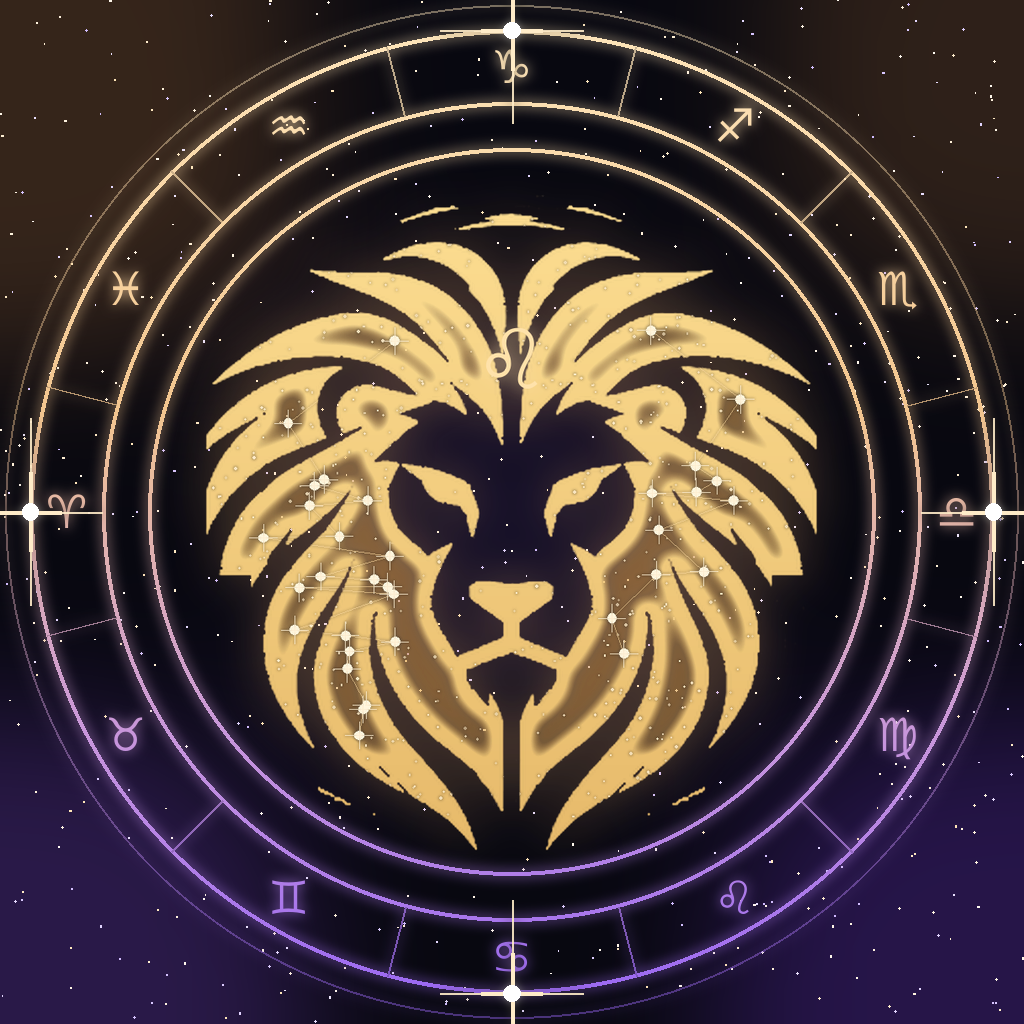
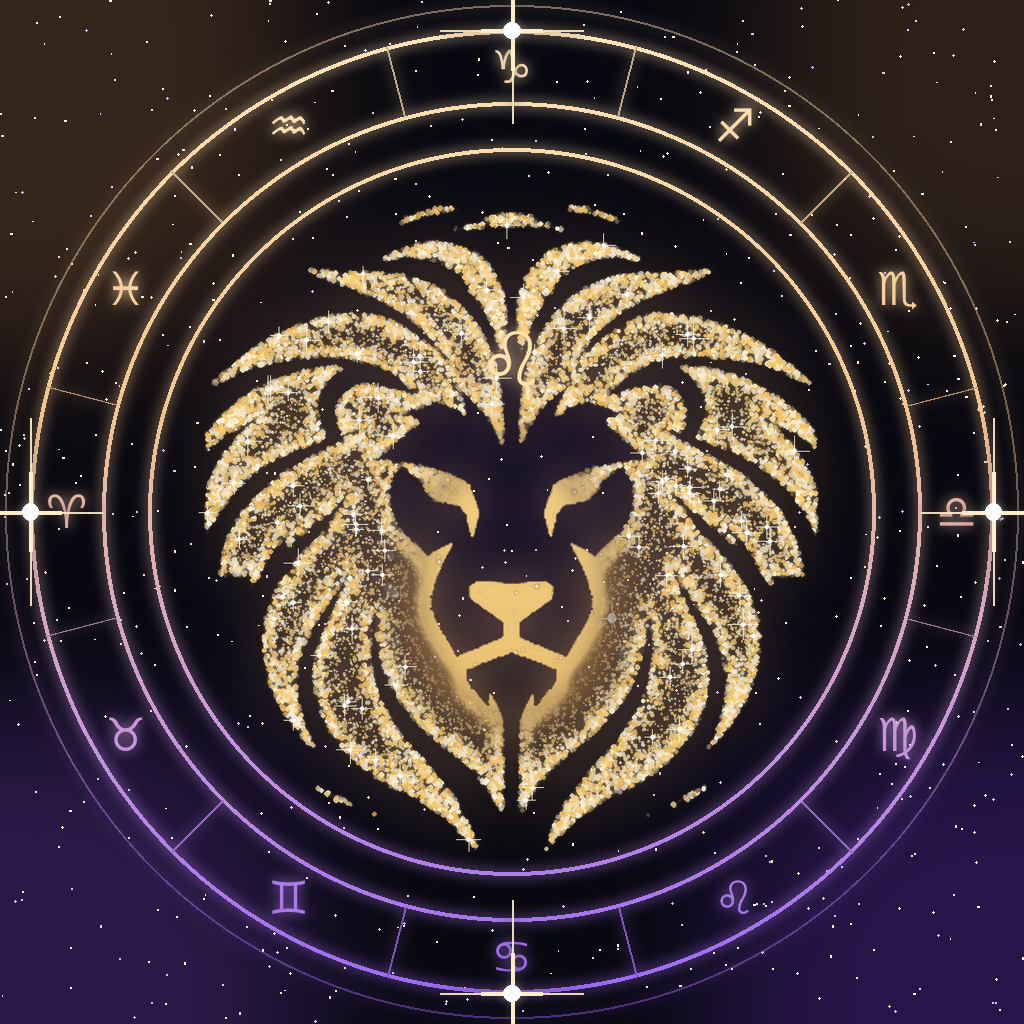
Leon Astral: juba do leão feita de estrelas (v9)
Claude-Session: https://claude.ai/code/session_015QtkNiigeZZHgyGsT8Acyk

Changed region(s): [[0.1875, 0.1875, 0.8125, 0.8438]]

diff --git a/leon-astral-app/tools/make_lion.py b/leon-astral-app/tools/make_lion.py
@@ -121,3 +121,53 @@ def make_icon(S, lion, wheel=True):
 if __name__=='__main__':
     lion=make_lion(900); lion.save('/home/claude/lion_v8.png')
     for s in (1024,512): make_icon(s,lion).save(f'/home/claude/icon_v8_{s}.png')
+
+def make_star_lion(size_w=900, seed=3):
+    base=make_lion(size_w)                     # versão atual (rosto nítido)
+    src0=Image.open('/home/claude/lion_clean.png').convert('RGBA')
+    pad=int(src0.width*0.12); src=Image.new('RGBA',(src0.width+2*pad,src0.height+2*pad),(0,0,0,0)); src.paste(src0,(pad,pad))
+    W,H=base.size; src=src.resize((W,H),Image.LANCZOS); A=src.split()[3]
+    er=A.filter(ImageFilter.MinFilter(int(W*0.02)|1)).filter(ImageFilter.GaussianBlur(W*0.01))
+    edge=ImageChops.subtract(A,er)
+    # máscara do rosto (elipse central suave)
+    face=Image.new('L',(W,H),0); fd=ImageDraw.Draw(face)
+    fd.ellipse((W*0.36,H*0.40,W*0.64,H*0.76),fill=255)
+    face=face.filter(ImageFilter.GaussianBlur(W*0.025))
+    mane=ImageChops.multiply(A,Image.eval(face,lambda v:255-v))
+    # rosto = versão atual recortada
+    fa=ImageChops.multiply(base.split()[3],face); facel=base.copy(); facel.putalpha(fa)
+    # névoa dourada bem leve para a juba ainda ler como forma
+    haze=Image.new('RGBA',(W,H),(240,190,110,0)); haze.putalpha(Image.eval(mane,lambda v:int(v*0.10)))
+    # estrelas que formam a juba
+    st=Image.new('RGBA',(W,H),(0,0,0,0)); d=ImageDraw.Draw(st); random.seed(seed)
+    mp=mane.load(); ep=edge.load()
+    cols=[(255,236,190),(255,214,130),(255,246,225),(250,200,110)]
+    n=0; tries=0; target=int(W*H/45)
+    while n<target and tries<target*8:
+        tries+=1; x,y=random.random()*W,random.random()*H
+        m=mp[int(x),int(y)]
+        if m<60: continue
+        e=ep[int(x),int(y)]/255
+        if random.random()>(0.35+0.65*min(1,e*1.6+0.25)): continue   # mais denso nas bordas das mechas
+        r=(random.choice([.5,.7,.9,1.1,1.4])+e*1.6)*W/900
+        a=int(min(255,(170+85*random.random())*(0.75+0.25*e))*m/255)
+        d.ellipse((x-r,y-r,x+r,y+r),fill=random.choice(cols)+(a,)); n+=1
+    # algumas estrelas grandes com brilho em cruz
+    for _ in range(int(W*H/9000)):
+        for _t in range(40):
+            x,y=random.random()*W,random.random()*H
+            if mp[int(x),int(y)]>200: break
+        L=random.uniform(8,18)*W/900; w=max(1,int(W/650))
+        d.line((x-L,y,x+L,y),fill=(255,244,220,230),width=w); d.line((x,y-L,x,y+L),fill=(255,244,220,230),width=w)
+        r=2.2*W/900; d.ellipse((x-r,y-r,x+r,y+r),fill=(255,255,255,255))
+    glow=st.filter(ImageFilter.GaussianBlur(W/320))
+    stars=Image.alpha_composite(glow,st)
+    out=Image.new('RGBA',(W,H),(0,0,0,0))
+    halo=Image.new('RGBA',(W,H),(255,190,110,0)); halo.putalpha(Image.eval(A.filter(ImageFilter.GaussianBlur(W*0.035)),lambda v:int(v*0.22)))
+    for layer in (halo,haze,stars,facel): out=Image.alpha_composite(out,layer)
+    # símbolo de Leão na testa por cima
+    f=ImageFont.truetype(FONT,int(W*0.10))
+    gl=Image.new('L',(W,H),0); ImageDraw.Draw(gl).text((W/2,H*0.30),'♌',font=f,anchor='mm',fill=255)
+    glyph=Image.merge('RGBA',(*Image.new('RGB',(W,H),(255,226,170)).split(),gl))
+    out=Image.alpha_composite(out,glyph.filter(ImageFilter.GaussianBlur(W*0.01))); out=Image.alpha_composite(out,glyph)
+    return out
